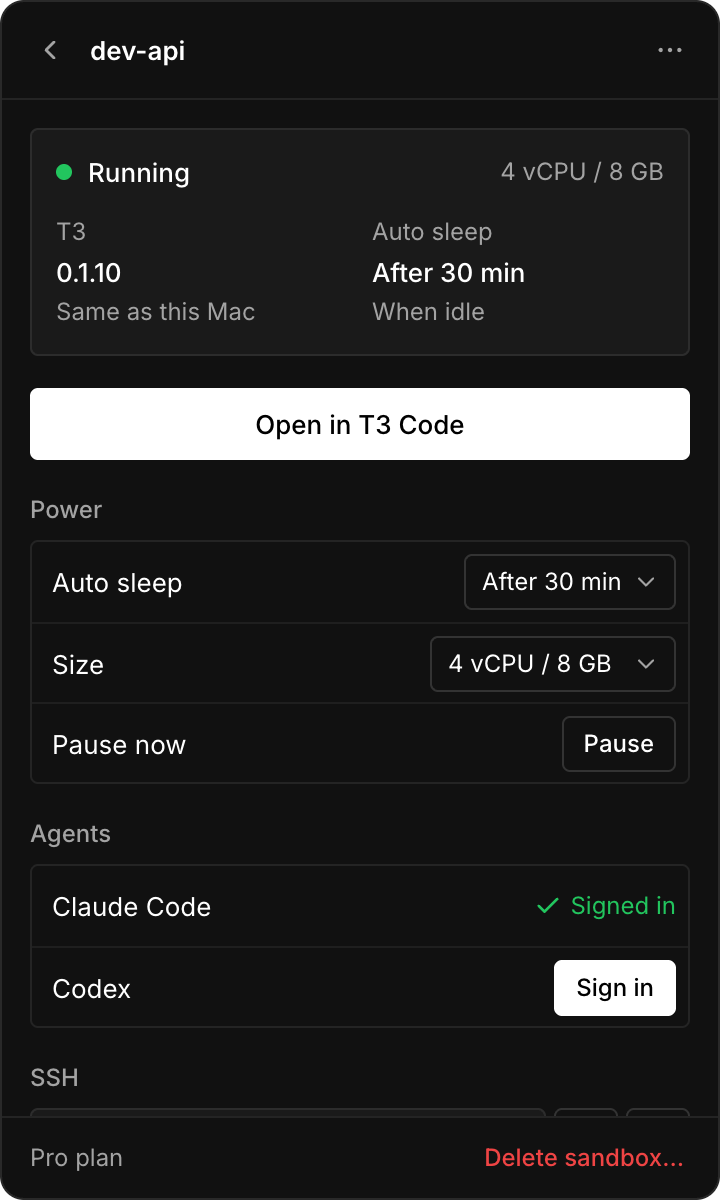
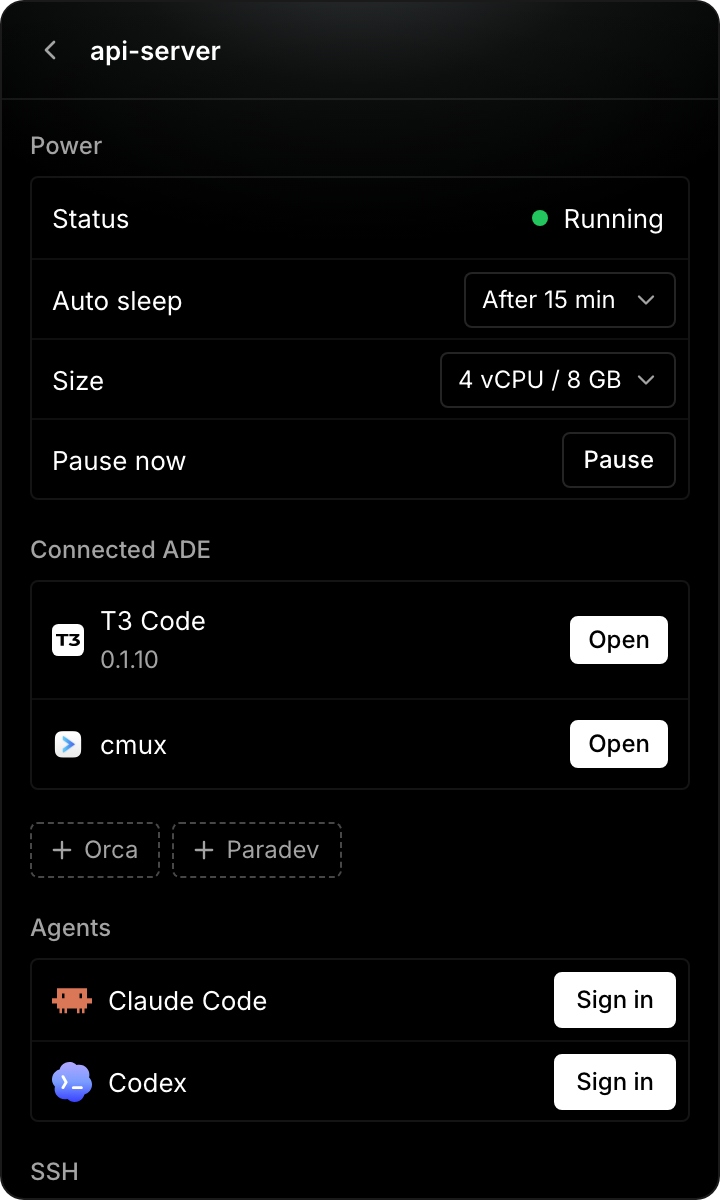
Present all four ADEs in the README with current screenshots (#22)
## What

The README read as if InstaBox were for T3 Code only, and its screenshots predate the popover refresh and the ADE switcher. It now presents all four ADEs (T3 Code, cmux, Orca and Paradev) and shows the current UI.

Merge after #21: the new Troubleshooting section says the popover can be dragged by its top bar, which #21 adds.

## How

- Intro: one line naming the four ADEs.
- Screenshots: four instead of three (list in cmux mode, the ADE switcher with all four, a row's menu in Paradev mode, details with T3 Code and cmux connected), taken from the browser preview with sample data only.
- Getting Started: which ADE runs where, per the `PLATFORMS` of each ADE in `src-tauri/src/ade/` (T3 Code and Orca on macOS and Windows, cmux and Paradev on macOS), and the second Install Paradev click.
- Features: setup per ADE instead of T3 pairing only, the look that follows the chosen ADE, several ADEs on one sandbox.
- Supported ADEs: a table of where each ADE runs and how InstaBox opens a sandbox in it. The per-ADE sections are unchanged.
- New Troubleshooting: an icon hidden behind the notch (hold Command and drag it right, or open InstaBox again from Applications, which shows the popover) and dragging the popover.
- `src/preview.ts`: the browser preview had no Paradev, so the switcher could not show it. Paradev is added the way Orca was, and a sandbox carries Orca and Paradev. A test covers it.

## Verify

- `bun run typecheck`, `bun run test` (117 passed), `bun run build`.
[…]

diff --git a/src/preview.ts b/src/preview.ts
@@ -1,5 +1,5 @@
 import fixture from "./fixtures/state.json";
-import type { AdeId, AppState, SandboxView } from "./types";
+import type { AdeId, AdeView, AppState, SandboxView } from "./types";
 
 // In-memory sample data only. This module never calls the native or cloud APIs.
 let state: AppState = {
@@ -9,6 +9,11 @@ let state: AppState = {
   error: null,
   update: null,
   startAtLogin: false,
+  // Every ADE a Mac can have. The shared fixture has no Paradev.
+  ades: [
+    ...fixture.ades,
+    { id: "paradev", name: "Paradev", shortName: "Paradev", version: "2.0.11", downloadUrl: "https://github.com/paradevai/paradev/releases/latest" },
+  ] as AdeView[],
   sandboxes: [
     ...fixture.sandboxes.slice(0, 3).map((s, i) => ({
       ...s,
@@ -16,7 +21,7 @@ let state: AppState = {
     })),
     ...[
       { id: "preview-api", name: "api-server", state: "running", connected: true, ades: ["t3", "cmux"] },
-      { id: "preview-mobile", name: "mobile-app", state: "paused", connected: false, ades: [] },
+      { id: "preview-mobile", name: "mobile-app", state: "paused", connected: false, ades: ["orca", "paradev"] },
       { id: "preview-design", name: "design-system", state: "running", connected: false, ades: ["cmux"] },
       { id: "preview-staging", name: "staging", state: "paused", connected: true, ades: ["t3"] },
     ].map((machine) => ({
@@ -57,7 +62,12 @@ export async function invokePreview(command: string, args: Record<string, unknow
     case "connect_sandbox": {
       const sandbox = state.sandboxes.find((s) => s.id === args.id);
       const ade = args.ade;
-      if (!sandbox || (ade !== "t3" && ade !== "cmux" && ade !== "orca")) throw { kind: "other", message: "Unknown sandbox or ADE in this preview." };
+      if (!sandbox || (ade !== "t3" && ade !== "cmux" && ade !== "orca" && ade !== "paradev")) throw { kind: "other", message: "Unknown sandbox or ADE in this preview." };
+      // Paradev sets the host up itself, so the app hands the setup over and marks nothing yet.
+      if (ade === "paradev") {
+        result = "The SSH address is copied. In Paradev, click Set up a host over SSH and paste it.";
+        break;
+      }
       patchSandbox({ ades: [...new Set<AdeId>([...sandbox.ades, ade])],
         ...(ade === "t3" ? { connected: true, t3Version: state.t3 } : {}) });
       if (ade === "orca") result = `In Orca, connect instabox-${sandbox.name} from the SSH menu, then open /data/home.`;

diff --git a/src/preview.test.tsx b/src/preview.test.tsx
@@ -14,7 +14,7 @@ vi.mock("@tauri-apps/api/event", () => ({
 }));
 
 import App from "./App";
-import { openInAde, pause } from "./api";
+import { connectSandbox, getState, openInAde, pause } from "./api";
 
 afterEach(() => { cleanup(); vi.restoreAllMocks(); });
 
@@ -46,4 +46,25 @@ test("preview update and connect actions preserve other connected ADEs", async (
   expect(design.queryByRole("button", { name: "Connect" })).toBeNull();
   expect(design.getByRole("img", { name: "cmux" })).toBeTruthy();
   expect(design.getByRole("img", { name: "T3 Code" })).toBeTruthy();
+});
+
+test("preview shows every ADE: all four in the switcher, Orca and Paradev on a sample sandbox", async () => {
+  render(<App />);
+  await screen.findByText("mobile-app");
+  const mobile = within(screen.getByText("mobile-app").closest("li")!);
+  expect(mobile.getByRole("img", { name: "Orca" })).toBeTruthy();
+  expect(mobile.getByRole("img", { name: "Paradev" })).toBeTruthy();
+  await userEvent.click(screen.getByRole("button", { name: /Switch ADE/ }));
+  const names = screen.getAllByRole("menuitemradio").map((item) => item.querySelector(".strong")?.textContent);
+  expect(names).toEqual(["InstaBox", "T3 Code", "cmux", "Orca", "Paradev"]);
+});
+
+test("preview Install Paradev hands the setup over and leaves the sandbox's mark as it was", async () => {
+  const before = (await getState()).sandboxes.find((s) => s.name === "api-server")!;
+  expect(before.ades).toEqual(["t3", "cmux"]);
+  await expect(connectSandbox(before.id, "paradev")).resolves.toBe(
+    "The SSH address is copied. In Paradev, click Set up a host over SSH and paste it.",
+  );
+  const after = (await getState()).sandboxes.find((s) => s.id === before.id)!;
+  expect(after.ades).toEqual(["t3", "cmux"]);
 });

diff --git a/README.md b/README.md
@@ -5,7 +5,7 @@
 
   <h1>InstaBox</h1>
 
-  <p>Run your ADE (agentic development environment) on an instabox sandbox, from your menu bar or system tray.</p>
+  <p>Run your ADE (agentic development environment) on an instabox sandbox, from your menu bar or system tray.<br>Works with T3 Code, cmux, Orca and Paradev.</p>
 
   <p>
     <a href="LICENSE"><img src="https://img.shields.io/badge/License-MIT-yellow.svg" alt="License: MIT"></a>
@@ -15,14 +15,15 @@
 </div>
 
 <p align="center">
-  <img src="docs/images/list.png" alt="Sandbox list" width="250">
-  <img src="docs/images/menu.png" alt="Sandbox actions" width="250">
-  <img src="docs/images/details.png" alt="Sandbox details" width="250">
+  <img src="docs/images/list.png" alt="Sandbox list in cmux mode" width="200">
+  <img src="docs/images/switcher.png" alt="ADE switcher with T3 Code, cmux, Orca and Paradev" width="200">
+  <img src="docs/images/menu.png" alt="Sandbox actions in Paradev mode" width="200">
+  <img src="docs/images/details.png" alt="Sandbox details with T3 Code and cmux connected, and Orca and Paradev to add" width="200">
 </p>
 
 ## Getting Started
 
-You need macOS or Windows (x64) and an [instabox](https://instabox.sh) account. To open sandboxes in an ADE, you also need a supported one: the [T3 Code](https://github.com/pingdotgg/t3code/releases/latest) desktop app, [cmux](https://github.com/manaflow-ai/cmux/releases/latest) or [Paradev](https://github.com/paradevai/paradev/releases/latest) on macOS, or [Orca](https://github.com/stablyai/orca/releases/latest).
+You need macOS or Windows (x64) and an [instabox](https://instabox.sh) account. To open sandboxes in an ADE, you also need its desktop app: [T3 Code](https://github.com/pingdotgg/t3code/releases/latest) or [Orca](https://github.com/stablyai/orca/releases/latest) on macOS or Windows, [cmux](https://github.com/manaflow-ai/cmux/releases/latest) or [Paradev](https://github.com/paradevai/paradev/releases/latest) on macOS.
 
 1. Download the latest release from [Releases](https://github.com/InsForge/instabox-bridge/releases/latest):
    - macOS: the `.dmg`, `aarch64` for Apple silicon, `x64` for Intel.
@@ -30,23 +31,32 @@ You need macOS or Windows (x64) and an [instabox](https://instabox.sh) account. 
 2. Install it:
    - macOS: drag InstaBox to Applications and open it. It is signed and notarized, so it opens normally.
    - Windows: run the installer. It is not signed yet, so Windows SmartScreen asks once: click **More info**, then **Run anyway**.
-3. Click the InstaBox icon in the menu bar (macOS) or the system tray (Windows; at first it may be under the **^** arrow).
+3. Click the InstaBox icon in the menu bar (macOS) or the system tray (Windows; at first it may be under the **^** arrow). If you cannot find it, see [Troubleshooting](#troubleshooting).
 4. Sign in with GitHub or Google.
-5. To open sandboxes in an ADE, pick it in the menu at the top (**InstaBox** keeps to sandboxes only). If you used T3 Code with InstaBox before, it starts in T3 Code.
+5. To open sandboxes in an ADE, pick T3 Code, cmux, Orca or Paradev in the menu at the top (**InstaBox** keeps to sandboxes only). If you used T3 Code with InstaBox before, it starts in T3 Code.
 6. Click **New sandbox**, pick a size, then click **Create sandbox**.
-7. Confirm the new environment in T3 Code, or the workspace in cmux. In Orca, connect the host InstaBox names from the SSH menu. In Paradev, click **Set up a host over SSH** and paste the SSH address InstaBox copied.
+7. Confirm the new environment in T3 Code, or the workspace in cmux. In Orca, connect the host InstaBox names from the SSH menu. In Paradev, click **Set up a host over SSH**, paste the SSH address InstaBox copied, then click **Install Paradev** again.
 
 ## Features
 
 - Create a sandbox or connect one you already have
-- Pick an ADE at the top: each sandbox gets **Open in** it, or **Install** it when the sandbox does not have it yet
-- Set up your ADE on the sandbox and pair it with the app on your computer
+- Pick T3 Code, cmux, Orca or Paradev at the top: each sandbox gets **Open in** it, or **Install** it when the sandbox does not have it yet
+- The popover takes on the look of the ADE you pick
+- Set up the ADE on the sandbox the way it needs (see [Supported ADEs](#supported-ades))
+- Use several ADEs on one sandbox: its details list each one with **Open**, and offer the other ADEs on your computer
 - Pause, resume, resize and set auto sleep
 - Copy the SSH command or open it in a terminal
 - Sign in to Claude Code or Codex on the sandbox
 - Starts at login (turn it off in Settings)
 
 ## Supported ADEs
+
+| ADE | Desktop app on | How InstaBox opens a sandbox in it |
+| --- | --- | --- |
+| [T3 Code](#t3-code) | macOS, Windows | Installs T3 on the sandbox and pairs it with the app |
+| [cmux](#cmux-macos) | macOS | Opens a `cmux://ssh` link, and cmux connects over SSH |
+| [Orca](#orca) | macOS, Windows | Adds the sandbox as an SSH host that Orca imports |
+| [Paradev](#paradev-macos) | macOS | Hands the host setup to Paradev, then opens a workspace on the host |
 
 ### T3 Code
 
@@ -100,6 +110,11 @@ A sandbox can have several ADEs. Its metadata marks them with two keys:
 - `instabox-bridge` holds one id, the key v0.1.x reads and writes. It is `t3` whenever T3 is on the sandbox, so v0.1.x keeps treating it as connected. Else it is the first id of the list.
 
 InstaBox reads the ids in `instabox-ades`, then the `instabox-bridge` id when the list lacks it. A sandbox with neither key, such as one made in plain InstaBox, has no ADE, so each ADE offers Install on it. Only an action that must pick an ADE when none was named uses T3 for it.
+
+## Troubleshooting
+
+- **No InstaBox icon in the macOS menu bar.** When the menu bar is crowded, the icon can hide behind the notch. Hold Command and drag the icon to the right to bring it back. You can also open InstaBox again from Applications, which shows the popover.
+- **The popover is in the way.** Drag it by its top bar.
 
 ## Roadmap
 
